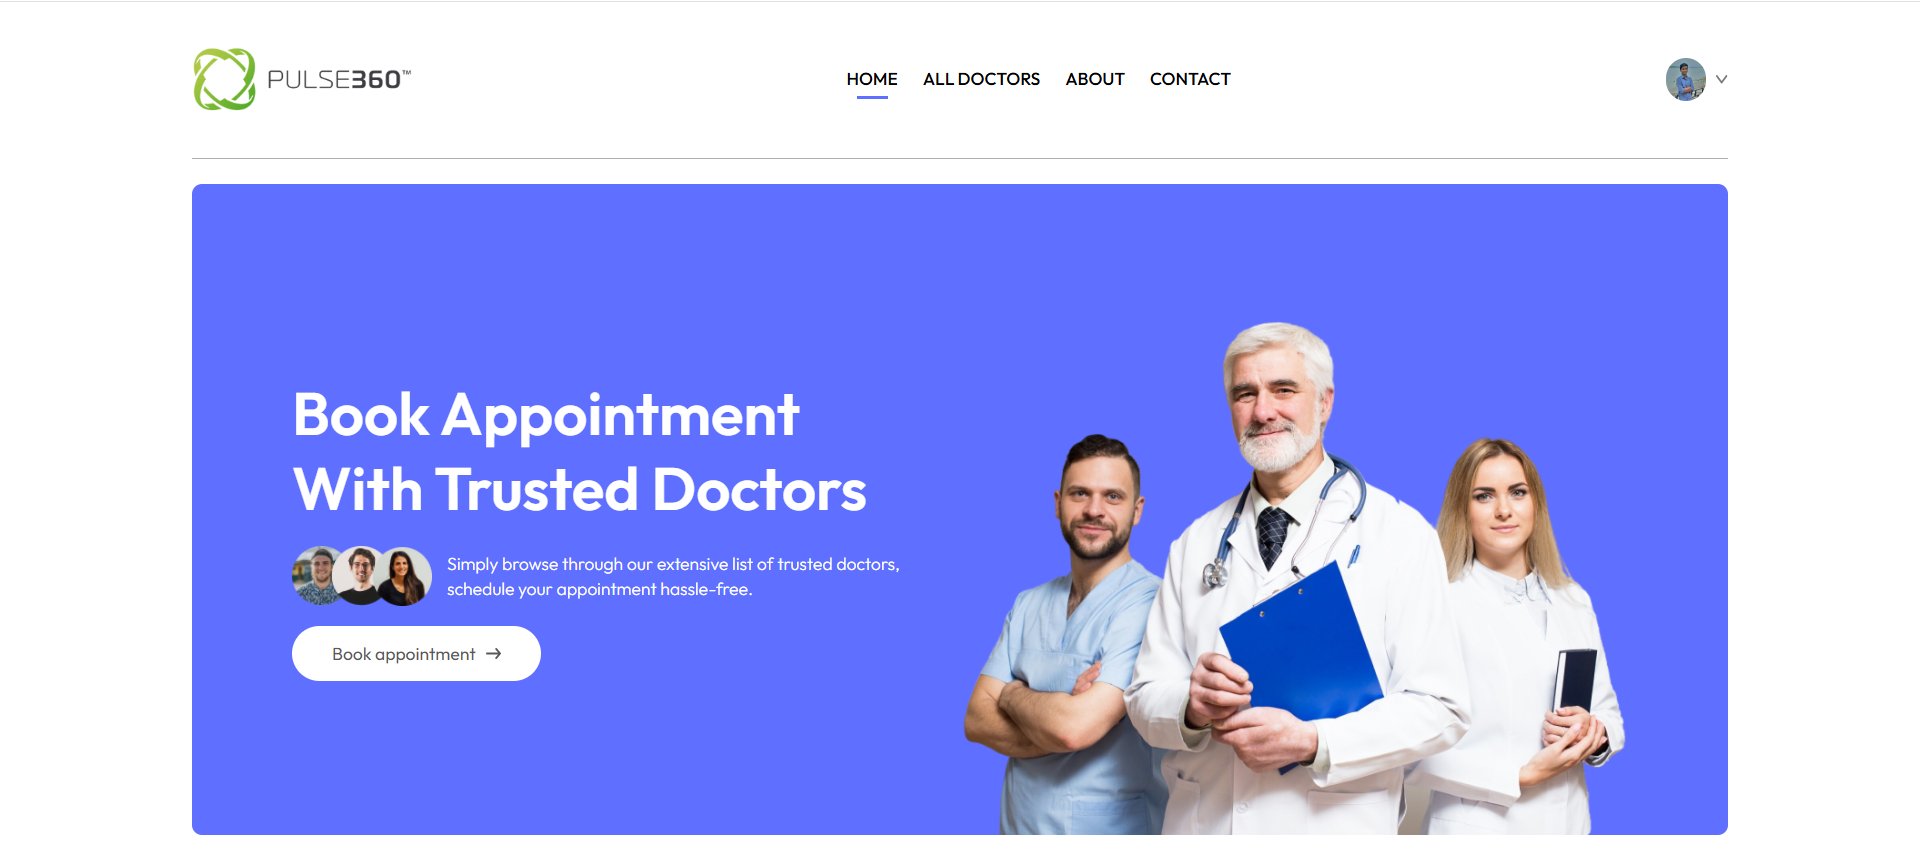
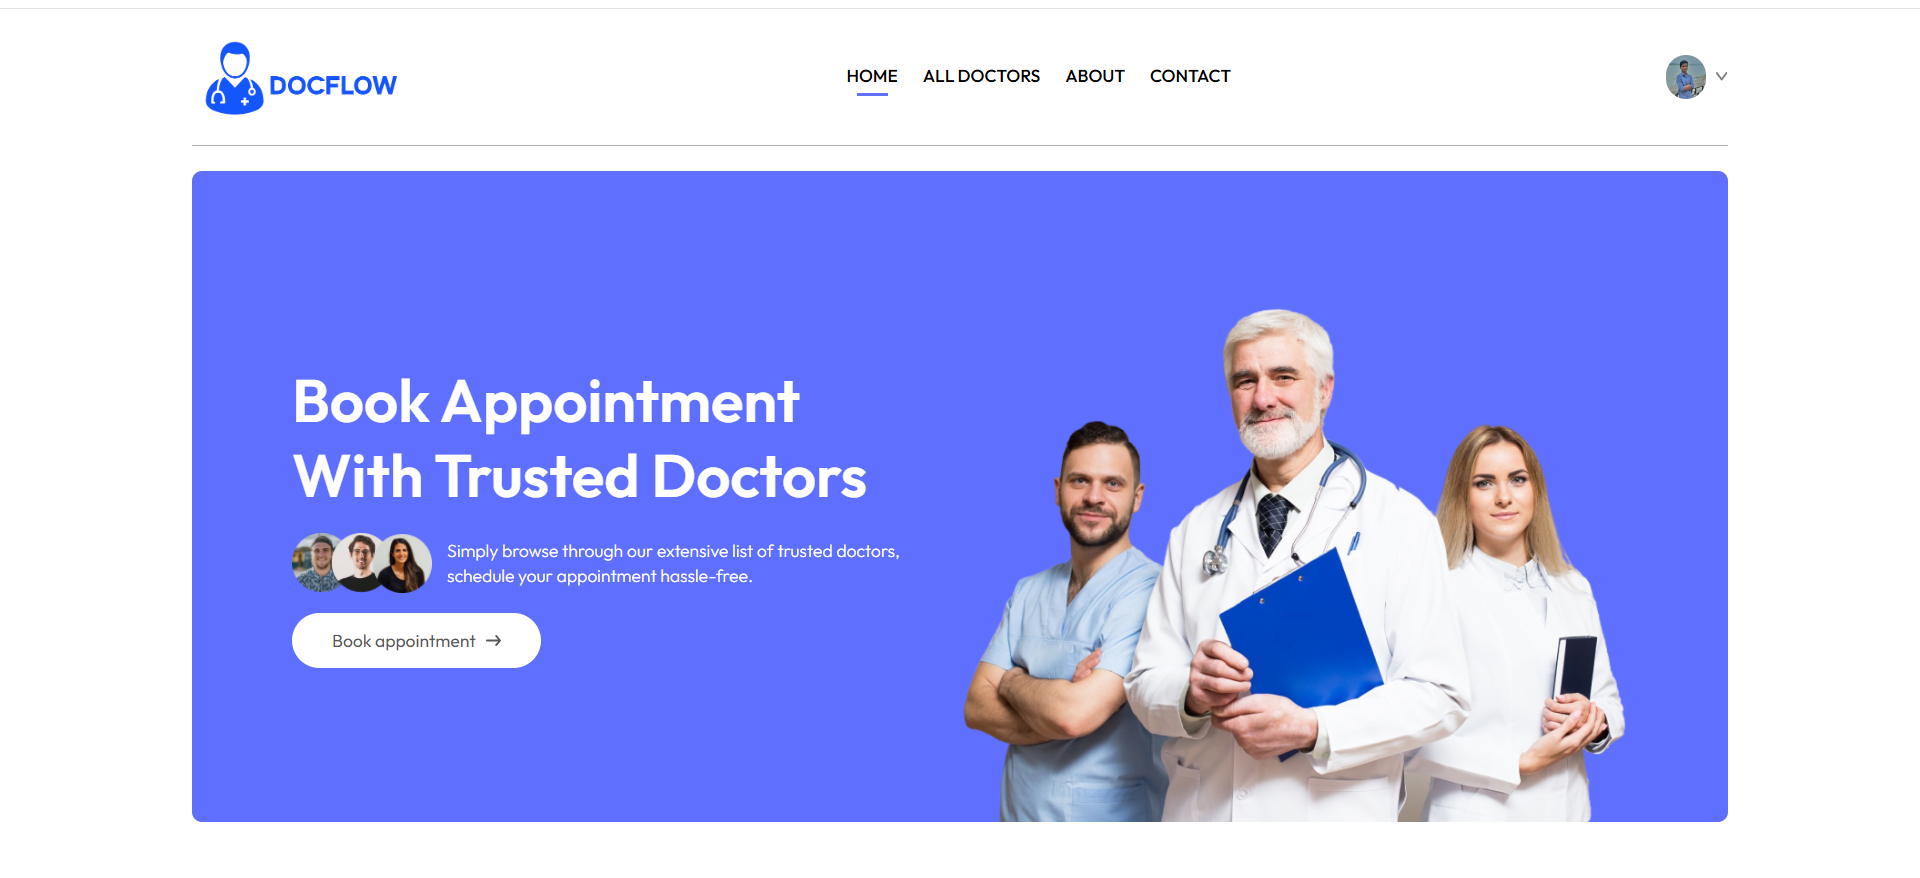
update project section

diff --git a/index.html b/index.html
@@ -733,12 +733,12 @@
         <div class="row d-flex">
           <div class="col-md-4 d-flex ftco-animate">
           	<div class="blog-entry justify-content-end">
-              <a href="https://github.com/Ayushyadav89/Pulse360-Healthcare-Application" class="block-20 zoom-effect" style="background-image: url('images/proj1.png');">
+              <a href="https://github.com/Ayushyadav89/DocFlow-Healthcare-Application" class="block-20 zoom-effect" style="background-image: url('images/proj1.png');">
               </a>
               <div class="text mt-3 float-right d-block">
 
-                <h3 class="heading"><a href="https://github.com/Ayushyadav89/Pulse360-Healthcare-Application">Pulse360 Healthcare Application</a></h3>
-                <p>Pulse360 is a doctor-patient management application built with the MERN stack, featuring dedicated dashboards for doctors, patients, and admins to streamline appointments, records, and healthcare management.</p>
+                <h3 class="heading"><a href="https://github.com/Ayushyadav89/DocFlow-Healthcare-Application">DocFlow Healthcare Application</a></h3>
+                <p>DocFlow is a doctor-patient management application built with the MERN stack, featuring dedicated dashboards for doctors, patients, and admins to streamline appointments, records, and healthcare management.</p>
               </div>
             </div>
           </div>
